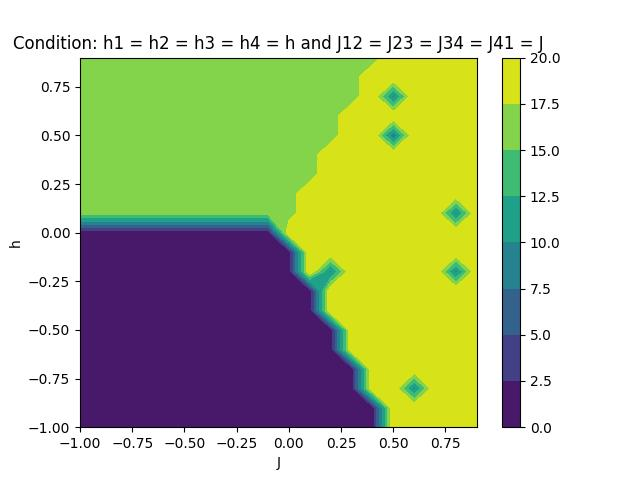
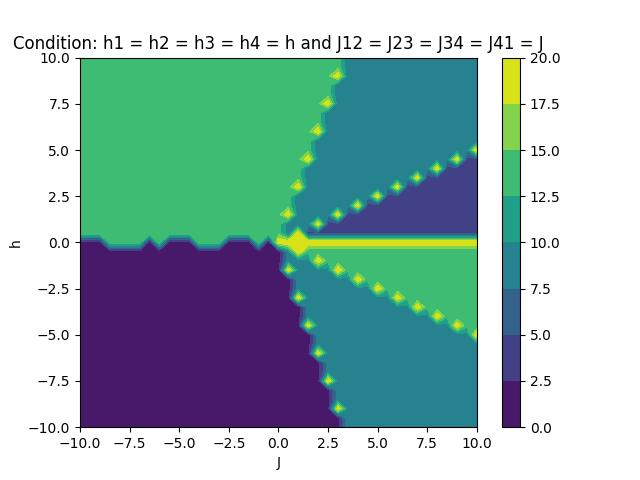
Pegasus and non degenerate spectrum for 4 qubits

diff --git a/four_plot_hJ.py b/four_plot_hJ.py
@@ -23,26 +23,28 @@ I_I_s3_I = np.kron(np.kron(np.kron(I, I), s3), I)
 I_I_I_s3 = np.kron(np.kron(np.kron(I, I), I), s3)
 
 s3_s3_I_I = np.kron(np.kron(np.kron(s3, s3), I), I)
-I_s3_s3_I = np.kron(np.kron(np.kron(I, s3), s3), I)
-I_I_s3_s3 = np.kron(np.kron(np.kron(I, I), s3), s3)
+s3_I_s3_I = np.kron(np.kron(np.kron(s3, I), s3), I)
 s3_I_I_s3 = np.kron(np.kron(np.kron(s3, I), I), s3)
+I_s3_s3_I = np.kron(np.kron(np.kron(I, s3), s3), I)
+I_s3_I_s3 = np.kron(np.kron(np.kron(I, s3), I), s3)
+I_I_s3_s3 = np.kron(np.kron(np.kron(I, I), s3), s3)
 
 zeta = np.matrix([[1, 0, 0, 0, 0, 0, 0, 0, 0, 0, 0, 0, 0, 0, 0, 0], 
-                  [0, 2, 0, 0, 0, 0, 0, 0, 0, 0, 0, 0, 0, 0, 0, 0],
-                  [0, 0, 3, 0, 0, 0, 0, 0, 0, 0, 0, 0, 0, 0, 0, 0],
-                  [0, 0, 0, 4, 0, 0, 0, 0, 0, 0, 0, 0, 0, 0, 0, 0],
-                  [0, 0, 0, 0, 5, 0, 0, 0, 0, 0, 0, 0, 0, 0, 0, 0], 
-                  [0, 0, 0, 0, 0, 6, 0, 0, 0, 0, 0, 0, 0, 0, 0, 0],
-                  [0, 0, 0, 0, 0, 0, 7, 0, 0, 0, 0, 0, 0, 0, 0, 0],
-                  [0, 0, 0, 0, 0, 0, 0, 8, 0, 0, 0, 0, 0, 0, 0, 0],
-                  [0, 0, 0, 0, 0, 0, 0, 0, 9, 0, 0, 0, 0, 0, 0, 0],
-                  [0, 0, 0, 0, 0, 0, 0, 0, 0, 10, 0, 0, 0, 0, 0, 0],
-                  [0, 0, 0, 0, 0, 0, 0, 0, 0, 0, 11, 0, 0, 0, 0, 0],
-                  [0, 0, 0, 0, 0, 0, 0, 0, 0, 0, 0, 12, 0, 0, 0, 0],
-                  [0, 0, 0, 0, 0, 0, 0, 0, 0, 0, 0, 0, 13, 0, 0, 0],
-                  [0, 0, 0, 0, 0, 0, 0, 0, 0, 0, 0, 0, 0, 14, 0, 0],
-                  [0, 0, 0, 0, 0, 0, 0, 0, 0, 0, 0, 0, 0, 0, 15, 0],
-                  [0, 0, 0, 0, 0, 0, 0, 0, 0, 0, 0, 0, 0, 0, 0, 16]])
+                  [0, 5, 0, 0, 0, 0, 0, 0, 0, 0, 0, 0, 0, 0, 0, 0],
+                  [0, 0, 10, 0, 0, 0, 0, 0, 0, 0, 0, 0, 0, 0, 0, 0],
+                  [0, 0, 0, 50, 0, 0, 0, 0, 0, 0, 0, 0, 0, 0, 0, 0],
+                  [0, 0, 0, 0, 100, 0, 0, 0, 0, 0, 0, 0, 0, 0, 0, 0], 
+                  [0, 0, 0, 0, 0, 500, 0, 0, 0, 0, 0, 0, 0, 0, 0, 0],
+                  [0, 0, 0, 0, 0, 0, 1000, 0, 0, 0, 0, 0, 0, 0, 0, 0],
+                  [0, 0, 0, 0, 0, 0, 0, 5000, 0, 0, 0, 0, 0, 0, 0, 0],
+                  [0, 0, 0, 0, 0, 0, 0, 0, 10000, 0, 0, 0, 0, 0, 0, 0],
+                  [0, 0, 0, 0, 0, 0, 0, 0, 0, 50000, 0, 0, 0, 0, 0, 0],
+                  [0, 0, 0, 0, 0, 0, 0, 0, 0, 0, 100000, 0, 0, 0, 0, 0],
+                  [0, 0, 0, 0, 0, 0, 0, 0, 0, 0, 0, 500000, 0, 0, 0, 0],
+                  [0, 0, 0, 0, 0, 0, 0, 0, 0, 0, 0, 0, 1000000, 0, 0, 0],
+                  [0, 0, 0, 0, 0, 0, 0, 0, 0, 0, 0, 0, 0, 5000000, 0, 0],
+                  [0, 0, 0, 0, 0, 0, 0, 0, 0, 0, 0, 0, 0, 0, 10000000, 0],
+                  [0, 0, 0, 0, 0, 0, 0, 0, 0, 0, 0, 0, 0, 0, 0, 5000000]])
 
 def round_half_up(n, decimals=0):
     multiplier = 10 ** decimals
@@ -68,7 +70,7 @@ s = np.array(data['s'])
 h0 = (s1_I_I_I + I_s1_I_I + I_I_s1_I + I_I_I_s1)
 
 def hf(h, J):
-    return (biases(h) * s3_I_I_I + biases(h) * I_s3_I_I + biases(h) * I_I_s3_I + biases(h) * I_I_I_s3) + (coupling_strengths(J) * s3_s3_I_I+ coupling_strengths(J) * I_s3_s3_I + coupling_strengths(J) * I_I_s3_s3 + coupling_strengths(J) * s3_I_I_s3)
+    return (biases(h) * s3_I_I_I + 2 * biases(h) * I_s3_I_I + 3 * biases(h) * I_I_s3_I + 4 * biases(h) * I_I_I_s3) + (coupling_strengths(J) * s3_s3_I_I + coupling_strengths(J) * s3_I_s3_I + coupling_strengths(J) * s3_I_I_s3 + coupling_strengths(J) * I_s3_s3_I + coupling_strengths(J) * I_s3_I_s3 + coupling_strengths(J) * I_I_s3_s3)
 
 def H(t, h, J):
     return - A.item(t) / 2 * h0 + B.item(t) / 2 * hf(h, J)
@@ -83,52 +85,54 @@ def ground_state(h, J):
         EigVectors = EigVectors[:,permute]
         
     EigVectors = np.real(EigVectors)
-    pippo = round_half_up(np.linalg.norm(zeta * EigVectors[:,0]), 1)
+    for i in range(0, 16):
+        EigVectors[:,0][i] = round_half_up(EigVectors[:,0][i], 1)
+    pippo = round_half_up(np.linalg.norm(zeta * EigVectors[:,0]))
     
     if pippo == 1.0:
         return 1
-    elif pippo == 2.0:
-        return 2
-    elif pippo == 3.0:
-        return 3
-    elif pippo == 4.0:
-        return 4
     elif pippo == 5.0:
-        return 5
-    elif pippo == 6.0:
-        return 6
-    elif pippo == 7.0:
-        return 7
-    elif pippo == 8.0:
-        return 8
-    elif pippo == 9.0:
-        return 9
+        return 2
     elif pippo == 10.0:
+        return 3
+    elif pippo == 50.0:
+        return 4
+    elif pippo == 100.0:
+        return 5
+    elif pippo == 500.0:
+        return 6
+    elif pippo == 1000.0:
+        return 7
+    elif pippo == 5000.0:
+        return 8
+    elif pippo == 10000.0:
+        return 9
+    elif pippo == 50000.0:
         return 10
-    elif pippo == 11.0:
+    elif pippo == 100000.0:
         return 11
-    elif pippo == 12.0:
+    elif pippo == 500000.0:
         return 12
-    elif pippo == 13.0:
+    elif pippo == 1000000.0:
         return 13
-    elif pippo == 14.0:
+    elif pippo == 5000000.0:
         return 14
-    elif pippo == 15.0:
+    elif pippo == 10000000.0:
         return 15
-    elif pippo == 16.0:
+    elif pippo == 50000000.0:
         return 16
     else:
         return 20
 
 z = []
 
-for h in np.arange(-1, 1, 0.1):
+for h in np.arange(-10, 10.5, 0.5):
     z.append([])
-    for J in np.arange(-1, 1, 0.1):
+    for J in np.arange(-10, 10.5, 0.5):
          z[-1].append(ground_state(h,J))
 
-xlist = np.linspace(-1, 0.9, 20)
-ylist = np.linspace(-1, 0.9, 20)
+xlist = np.linspace(-10, 10, 41)
+ylist = np.linspace(-10, 10, 41)
 X, Y = np.meshgrid(xlist, ylist)
  
 fig, ax = plt.subplots(1,1)

diff --git a/four_qubit.py b/four_qubit.py
@@ -22,16 +22,18 @@ I_I_s3_I = np.kron(np.kron(np.kron(I, I), s3), I)
 I_I_I_s3 = np.kron(np.kron(np.kron(I, I), I), s3)
 
 s3_s3_I_I = np.kron(np.kron(np.kron(s3, s3), I), I)
-I_s3_s3_I = np.kron(np.kron(np.kron(I, s3), s3), I)
-I_I_s3_s3 = np.kron(np.kron(np.kron(I, I), s3), s3)
+s3_I_s3_I = np.kron(np.kron(np.kron(s3, I), s3), I)
 s3_I_I_s3 = np.kron(np.kron(np.kron(s3, I), I), s3)
+I_s3_s3_I = np.kron(np.kron(np.kron(I, s3), s3), I)
+I_s3_I_s3 = np.kron(np.kron(np.kron(I, s3), I), s3)
+I_I_s3_s3 = np.kron(np.kron(np.kron(I, I), s3), s3)
 
 # objective function parameters
 
-biases = np.array([7/2, 3 , 5/2, 4])
-coupling_strengths = np.matrix([[0, 2, 2, 2], 
-                                [0, 0, 2, 2],
-                                [0, 0, 0, 2], 
+biases = np.array([1, 2, 3, 4])
+coupling_strengths = np.matrix([[0, -7, -7, -7], 
+                                [0, 0, -7, -7],
+                                [0, 0, 0, -7], 
                                 [0, 0, 0, 0]])
 
 # QPU anneal parameters
@@ -49,7 +51,7 @@ B = B * h
 # hamiltonians
 
 h0 = (s1_I_I_I + I_s1_I_I + I_I_s1_I + I_I_I_s1)
-hf = (biases.item(0) * s3_I_I_I + biases.item(1) * I_s3_I_I + biases.item(2) * I_I_s3_I + biases.item(3) * I_I_I_s3) + (coupling_strengths.item(0, 1) * s3_s3_I_I+ coupling_strengths.item(1, 2) * I_s3_s3_I + coupling_strengths.item(2, 3) * I_I_s3_s3 + coupling_strengths.item(0, 3) * s3_I_I_s3)
+hf = (biases.item(0) * s3_I_I_I + biases.item(1) * I_s3_I_I + biases.item(2) * I_I_s3_I + biases.item(3) * I_I_I_s3) + (coupling_strengths.item(0, 1) * s3_s3_I_I + coupling_strengths.item(0, 2) * s3_I_s3_I + coupling_strengths.item(0, 3) * s3_I_I_s3 + coupling_strengths.item(1, 2) * I_s3_s3_I + coupling_strengths.item(1, 3) * I_s3_I_s3 + coupling_strengths.item(2, 3) * I_I_s3_s3)
 
 def H(t): 
     return - A.item(t) / 2 * h0 + B.item(t) / 2 * hf
